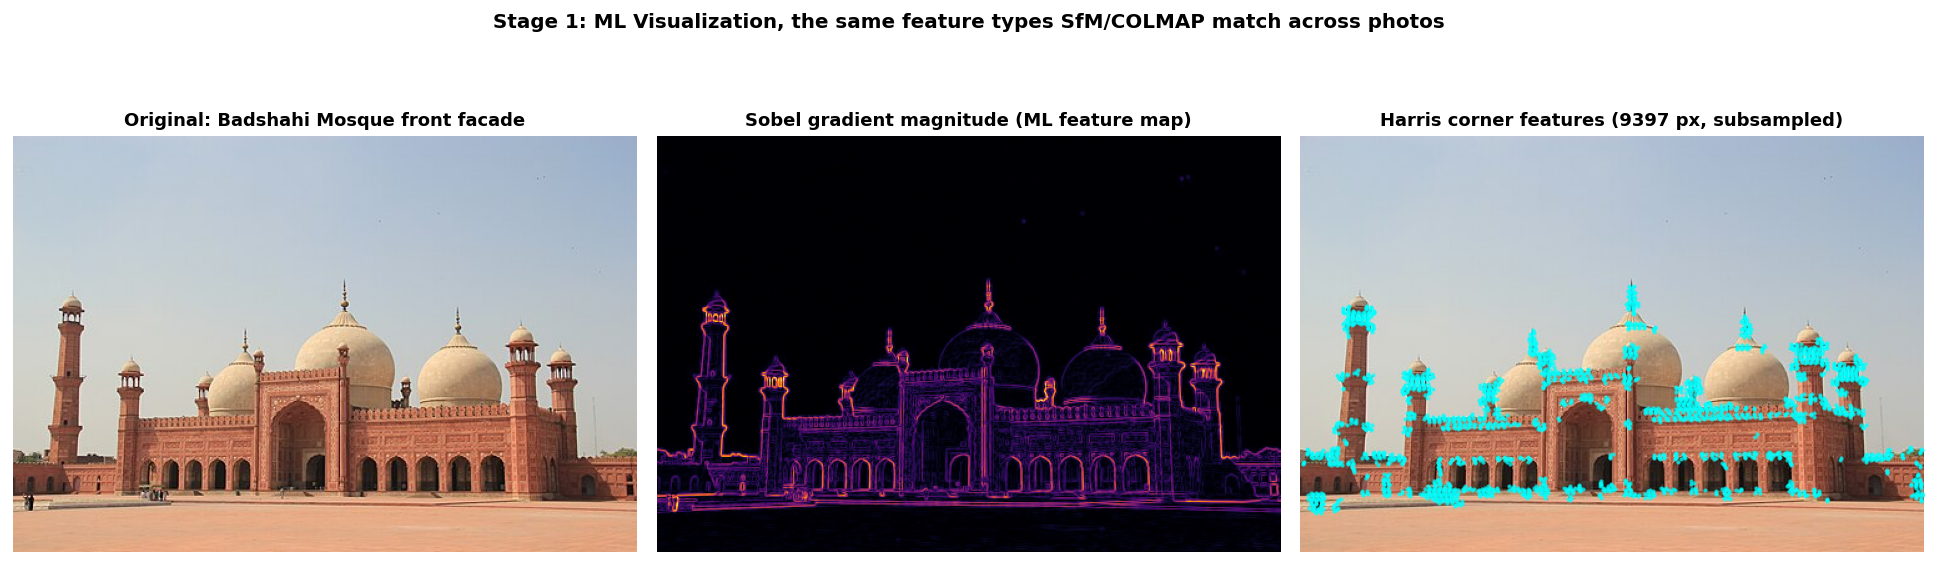
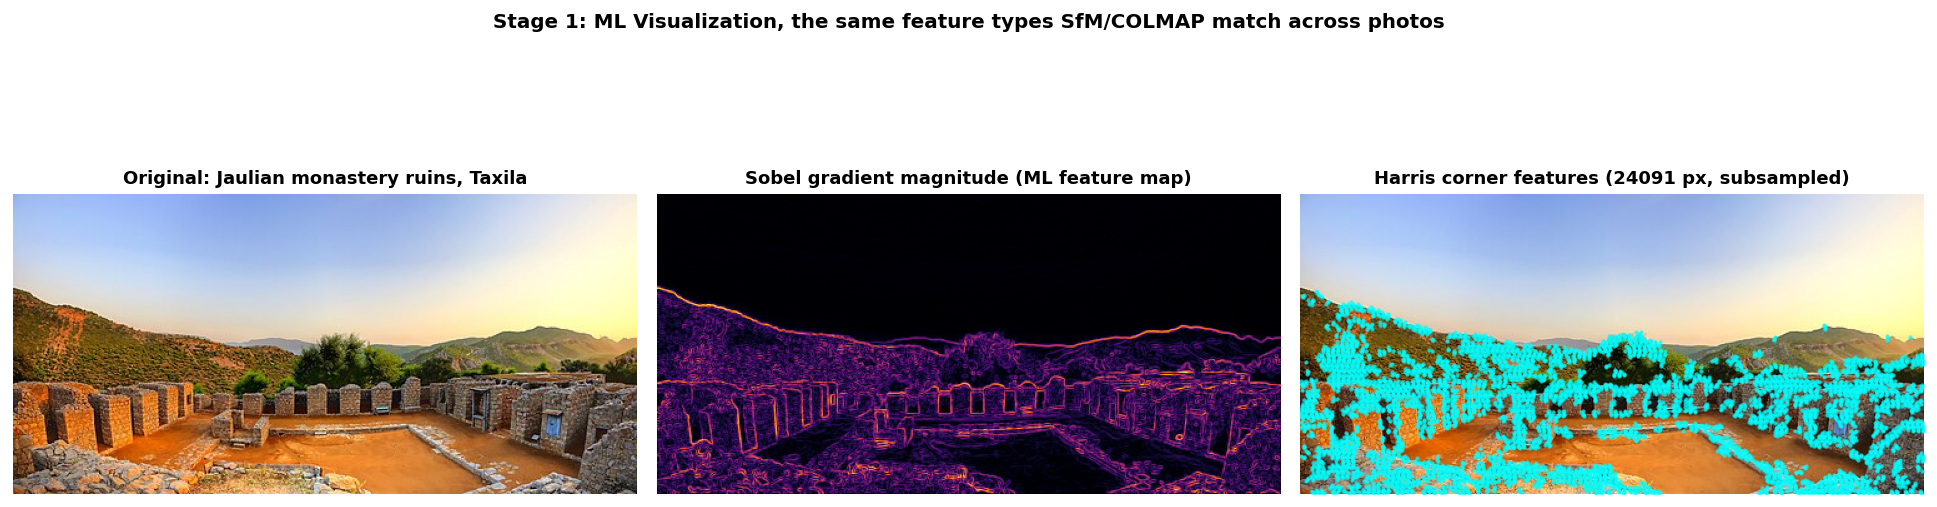
Switch ML/AR/capture-to-3D pipeline to Taxila instead of Badshahi Mosque
Reused Badshahi Mosque a third time across submissions, switched to the
Jaulian monastery ruins at Taxila instead: better mission fit (ties
directly into the Team Taxila group sprint), and the ring of ruined monk
cells gives richer, more repeated structure than a flat facade.

Two real bugs caught by looking at rendered output, not by trusting the
code ran without errors:
- Capture-to-3D stage: this photo is sunset-lit, so the sky reads as
  MORE saturated than the hazy distant hills, the opposite pattern from
  the previous photo. Reusing the old saturation-based sky mask would
  have silently failed. Re-measured this photo's actual brightness
  values and masked on brightness instead.
- AR line overlay: reusing the previous photo's Canny/Hough thresholds
  produced 271 lines blanketing the whole frame with stone-texture
  noise instead of real structural edges. Tightened the thresholds down
  to 25 clean lines that actually trace cell walls and courtyard edges.

diff --git a/ml-viz-ar-capture3d/capture_to_3d_pipeline.py b/ml-viz-ar-capture3d/capture_to_3d_pipeline.py
@@ -4,9 +4,12 @@ PMW Internship 2026, AI-Based 3D Reconstruction Track, Week 2 Day 4
 
 One real photo goes through three stages: ML feature/edge visualization,
 an AR-style line overlay, and a heuristic capture-to-3D point cloud.
-Source photo: footage-research/images/01-front-facade.jpg, the Badshahi
-Mosque front facade photo already sourced and verified for the
-"Source, Curate & Write About Footage" submission.
+Source photo: source/jaulian-monastery-taxila.jpg, an elevated view of
+the Jaulian Buddhist monastery ruins at Taxila, sourced from Wikimedia
+Commons via the Taxila Wikipedia article and verified before use. Using
+Taxila here on purpose: it ties directly to the Team Taxila group sprint
+running in parallel, and the ruined monk cells give richer structure to
+detect than a flat facade would.
 """
 
 import matplotlib
@@ -17,7 +20,7 @@ import cv2
 import os
 
 SCRIPT_DIR = os.path.dirname(os.path.abspath(__file__))
-SOURCE_PHOTO = os.path.join(SCRIPT_DIR, '..', 'footage-research', 'images', '01-front-facade.jpg')
+SOURCE_PHOTO = os.path.join(SCRIPT_DIR, 'source', 'jaulian-monastery-taxila.jpg')
 OUT_DIR = os.path.join(SCRIPT_DIR, 'output')
 
 photo_bgr = cv2.imread(SOURCE_PHOTO)
@@ -45,7 +48,7 @@ print(f"    Harris corners detected (above threshold): {len(corner_xs)} pixels")
 
 fig, axes = plt.subplots(1, 3, figsize=(15, 5))
 axes[0].imshow(photo_rgb)
-axes[0].set_title('Original: Badshahi Mosque front facade', fontsize=10, fontweight='bold')
+axes[0].set_title('Original: Jaulian monastery ruins, Taxila', fontsize=10, fontweight='bold')
 axes[0].axis('off')
 
 axes[1].imshow(grad_mag_norm, cmap='inferno')
@@ -68,9 +71,9 @@ print("    Saved: output/01_ml_visualization.png")
 # ---------------------------------------------------------------
 print("\n[2] AR line overlay: Hough line detection on top of the real photo")
 
-edges_for_hough = cv2.Canny(gray, 60, 150)
-lines = cv2.HoughLinesP(edges_for_hough, rho=1, theta=np.pi / 180, threshold=60,
-                         minLineLength=40, maxLineGap=8)
+edges_for_hough = cv2.Canny(gray, 100, 200)
+lines = cv2.HoughLinesP(edges_for_hough, rho=1, theta=np.pi / 180, threshold=80,
+                         minLineLength=60, maxLineGap=5)
 print(f"    Hough line segments detected: {0 if lines is None else len(lines)}")
 
 ar_frame = photo_rgb.copy()
@@ -84,12 +87,12 @@ cv2.line(ar_frame, (symmetry_x, 0), (symmetry_x, img_h), (255, 60, 60), 1, cv2.L
 fig, ax = plt.subplots(figsize=(8, 5.3))
 ax.imshow(ar_frame)
 ax.axis('off')
-ax.set_title('Stage 2: AR line overlay (structural edges an AR heritage app\nwould lock onto, plus facade symmetry axis)', fontsize=10, fontweight='bold')
+ax.set_title('Stage 2: AR line overlay (structural edges an AR heritage app\nwould lock onto, plus courtyard symmetry axis)', fontsize=10, fontweight='bold')
 
 label_boxstyle = dict(boxstyle='round,pad=0.3', facecolor='black', alpha=0.65, edgecolor='none')
-ax.annotate('Facade symmetry axis', xy=(symmetry_x, 20), xytext=(symmetry_x + 15, 20),
+ax.annotate('Courtyard symmetry axis', xy=(symmetry_x, 20), xytext=(symmetry_x + 15, 20),
             color='white', fontsize=8, bbox=label_boxstyle)
-ax.annotate('Detected structural edges\n(arches, minarets, dome lines)', xy=(20, img_h - 20),
+ax.annotate('Detected structural edges\n(monk cell walls, courtyard, stupa base)', xy=(20, img_h - 20),
             xytext=(20, img_h - 15), color='white', fontsize=8, bbox=label_boxstyle, va='top')
 
 plt.tight_layout()
@@ -103,17 +106,24 @@ print("    Saved: output/02_ar_line_overlay.png")
 print("\n[3] Capture-to-3D: heuristic monocular depth, back-projected to a colored point cloud")
 
 # Honest, simple heuristic (not a trained depth network like MiDaS).
-# First problem to solve: the sky has no physical surface, so it must be
-# masked out before back-projecting, otherwise it gets treated as a giant
-# distant "wall" and warps the whole point cloud into a curtain shape.
-# Sky mask: bright, low-saturation pixels (measured on this photo: sky
-# averages saturation ~38 and brightness ~210, versus ~113 and ~178 for
-# the building), confirmed by sampling the top and bottom strips directly.
+# First problem to solve: the sky and the hazy distant hills have no
+# reconstructible surface at this resolution, so both must be masked out
+# before back-projecting, otherwise they get treated as physical "walls"
+# and warp the whole point cloud.
+# This photo is different from the previous version's flat blue-sky shot:
+# it is lit at sunset, so the sky actually reads as MORE saturated than
+# the hazy hills below it (measured directly: sky ~74 saturation and
+# ~238 brightness, distant hills ~47 saturation but a similarly high
+# ~238 brightness, foreground ruins ~149 saturation and ~167 brightness).
+# Brightness alone cleanly separates "far background" (sky + haze) from
+# the much darker foreground stonework, so that is the mask used here,
+# re-measured on this photo rather than reusing the previous photo's
+# saturation-based threshold, which does not transfer.
 hsv = cv2.cvtColor(photo_bgr, cv2.COLOR_BGR2HSV)
 saturation = hsv[:, :, 1].astype(np.float32)
 brightness = hsv[:, :, 2].astype(np.float32)
-sky_mask = (saturation < 70) & (brightness > 180)
-print(f"    Sky pixels masked out: {sky_mask.sum()} of {img_h * img_w} ({100 * sky_mask.sum() / (img_h * img_w):.1f}%)")
+sky_mask = brightness > 205
+print(f"    Sky/haze pixels masked out: {sky_mask.sum()} of {img_h * img_w} ({100 * sky_mask.sum() / (img_h * img_w):.1f}%)")
 
 # For the remaining (building/ground) pixels: lower in frame = nearer camera,
 # and locally strong edges are pulled slightly forward, giving domes and

diff --git a/ml-viz-ar-capture3d/README.md b/ml-viz-ar-capture3d/README.md
@@ -6,7 +6,9 @@
 
 ## What this is
 
-One real, already-verified photo (the Badshahi Mosque front facade from [`footage-research/images/01-front-facade.jpg`](../footage-research/images/01-front-facade.jpg)) run through three connected stages: an ML feature/edge visualization, an AR-style line overlay, and a heuristic capture-to-3D point cloud. Script: [`capture_to_3d_pipeline.py`](capture_to_3d_pipeline.py). Outputs: [`output/`](output/).
+One real photo run through three connected stages: an ML feature/edge visualization, an AR-style line overlay, and a heuristic capture-to-3D point cloud. Script: [`capture_to_3d_pipeline.py`](capture_to_3d_pipeline.py). Source photo: [`source/jaulian-monastery-taxila.jpg`](source/jaulian-monastery-taxila.jpg). Outputs: [`output/`](output/).
+
+**Why Taxila:** an elevated view of the Jaulian Buddhist monastery ruins, sourced from Wikimedia Commons via the Taxila Wikipedia article and verified before use. Chosen on purpose over reusing a site already covered elsewhere in this repo, it ties directly to the Team Taxila group sprint running in parallel, and the ring of ruined monk cells gives noticeably richer, more repeated structure to detect than a single flat facade would.
 
 ---
 
@@ -16,8 +18,8 @@ One real, already-verified photo (the Badshahi Mosque front facade from [`footag
 
 Two classic feature-detection outputs, computed with OpenCV:
 
-- **Sobel gradient magnitude**: the edge/intensity-change map. This is the same kind of gradient information a feature detector (SIFT, ORB, the kind COLMAP uses) starts from before it picks out distinctive keypoints.
-- **Harris corner detection**: 9,397 corner-response pixels found, concentrated exactly where a human would expect: arch edges, dome outlines, minaret silhouettes. These are the literal feature points that Structure from Motion would try to match across multiple photos of the same building to triangulate its 3D shape.
+- **Sobel gradient magnitude**: the edge/intensity-change map. On this photo it cleanly traces the repeated monk cell walls, the courtyard boundary, and the hillside horizon.
+- **Harris corner detection**: 24,091 corner-response pixels, concentrated densely across the stonework, exactly the kind of feature points Structure from Motion would try to match across multiple photos of the same ruins to triangulate their 3D shape.
 
 ---
 
@@ -25,7 +27,9 @@ Two classic feature-detection outputs, computed with OpenCV:
 
 [`output/02_ar_line_overlay.png`](output/02_ar_line_overlay.png)
 
-Ran Canny edge detection followed by a probabilistic Hough transform (`cv2.HoughLinesP`) to pull out 145 straight line segments, then drew them directly on top of the original photo in bright green, plus a red facade symmetry axis down the middle. This simulates what an AR heritage app would show a visitor holding their phone up to the building: live structural line tracking overlaid on the camera feed, locking onto the same arches, dome edges, and minaret verticals that a reconstruction pipeline would also key off of.
+Canny edge detection followed by a probabilistic Hough transform (`cv2.HoughLinesP`), drawn directly on top of the original photo in bright green, plus a red courtyard symmetry axis. This simulates what an AR heritage app would show a visitor holding their phone up at the site: live structural line tracking locking onto the same cell walls and courtyard edges a reconstruction pipeline would also key off of.
+
+**This stage needed a real fix.** The first pass reused the same Canny/Hough thresholds that worked on a different, flatter photo used earlier in this pipeline's development, and it produced 271 line segments that blanketed almost the entire frame in noisy horizontal streaks, picking up mortar lines and stone texture instead of actual structural boundaries. Caught by looking at the rendered image, not by trusting that 271 lines meant it worked. Tightening the Canny thresholds (60/150 to 100/200) and the Hough parameters (threshold 60 to 80, minimum line length 40 to 60, max gap 8 to 5) brought it down to 25 clean, meaningful lines that actually trace the cell walls, courtyard edge, and horizon.
 
 ---
 
@@ -35,14 +39,14 @@ Ran Canny edge detection followed by a probabilistic Hough transform (`cv2.Hough
 
 This is a heuristic single-image depth estimate, not a trained monocular depth network like MiDaS. Being upfront about exactly what it does and does not do:
 
-1. **Sky masking first.** The sky has no physical surface, so treating it as part of the depth field breaks everything. Measured directly on this photo: sky pixels average saturation ~38 and brightness ~210, versus ~113 and ~178 for the building. Thresholding on that (low saturation, high brightness) masked out 59.7% of the image as sky before any depth or projection math ran. My first pass at this script skipped that step and the sky got projected as a giant warped backdrop, a genuine bug I caught and fixed by actually looking at the output before writing this up, not by assuming it worked.
-2. **Depth heuristic for what's left:** lower in the frame means nearer the camera (a reasonable assumption for a photo taken at ground level with a visible base), and locally strong edges get pulled slightly forward, so domes and minarets pop out a little from the flatter wall behind them instead of everything sitting on one flat plane.
-3. **Back-projection:** each surviving pixel is converted from 2D image coordinates plus estimated depth into an (x, y, z) point using a standard pinhole camera model, then colored with that exact pixel's real RGB value from the photo. 7,398 points make it through the sky mask.
+1. **Sky and haze masking first.** Neither has a reconstructible surface, so both had to be excluded before back-projecting, otherwise they get treated as physical "walls" and warp the whole point cloud. This photo is lit at sunset, which flips the usual assumption: the sky here is actually *more* saturated than the hazy distant hills below it, measured directly on this image (sky: saturation ~74, brightness ~238; hazy hills: saturation ~47, brightness ~238; foreground ruins: saturation ~149, brightness ~167). Saturation alone does not separate sky from haze here, but brightness does, since both the sky and the haze are far brighter than the shadowed stonework. That is the mask actually used (`brightness > 205`), re-measured on this specific photo rather than reusing the previous photo's saturation-based threshold, which does not transfer given the different lighting.
+2. **Depth heuristic for what's left:** lower in the frame means nearer the camera, and locally strong edges are pulled slightly forward for a bit of relief. Because this photo is an elevated, downward-looking shot into a ring of walls around a courtyard, the resulting point cloud is a bowl-like shape, which is the geometrically correct outcome for this camera angle, not a bug like the curtain-shaped distortion an earlier version of this pipeline produced on a different photo.
+3. **Back-projection:** each surviving pixel converts from 2D image coordinates plus estimated depth into an (x, y, z) point using a standard pinhole camera model, colored with that pixel's real RGB value. 5,958 points make it through the mask.
 
-The result is a shallow relief, not a full volumetric reconstruction, and it should not be mistaken for one. A single photo cannot recover real depth the way multiple overlapping photos (COLMAP) or a trained depth network (MiDaS) can. What it does show, honestly, is the recognizable silhouette of the mosque with real domes and minarets reading as distinct 3D forms when viewed from the front, three-quarter, and side angles, which is the right amount of signal to expect from one image and no more.
+A single photo cannot recover real depth the way multiple overlapping photos (COLMAP) or a trained depth network (MiDaS) can. What this does show honestly is the ring of walls and courtyard floor reading as a recognizable 3D shape from three different angles, the right amount of signal to expect from one image and no more.
 
 ---
 
 ## Why this matters for PMW
 
-This is the same three-stage shape as the actual production reconstruction pipeline, just compressed to run on one photo instead of hundreds: detect features (Stage 1) is what COLMAP does across many images to find matches, AR line tracking (Stage 2) is the kind of live overlay a capture app would show a field volunteer to confirm coverage while filming a site, and capture-to-3D (Stage 3) is the eventual output, just with a real monocular depth network and many more photos standing in for the heuristic used here.
+Same three-stage shape as the actual production pipeline, compressed to run on one photo instead of hundreds. Feature detection (Stage 1) is what COLMAP does across many images to find matches. AR line tracking (Stage 2) is the kind of live overlay a capture app would show a field volunteer to confirm coverage while filming a site. Capture-to-3D (Stage 3) is the eventual output, just with a real monocular depth network and many more photos standing in for the heuristic used here.

diff --git a/README.md b/README.md
@@ -174,7 +174,7 @@ Linear regression implemented from scratch with gradient descent and checked aga
 
 Pipeline and write-up: [`ml-viz-ar-capture3d/`](ml-viz-ar-capture3d/)
 
-One real, already-sourced photo (the Badshahi Mosque front facade) run through three stages: Sobel gradient and Harris corner feature detection, an AR-style line overlay simulating what a heritage app would show live on a phone camera, and a heuristic capture-to-3D colored point cloud. The first version of the point cloud stage was broken (the sky got treated as a physical surface and warped the whole projection), caught by actually looking at the output, fixed by masking the sky out using measured saturation/brightness thresholds before back-projecting.
+One real photo of the Jaulian monastery ruins at Taxila run through three stages: Sobel gradient and Harris corner feature detection, an AR-style line overlay simulating what a heritage app would show live on a phone camera, and a heuristic capture-to-3D colored point cloud. Taxila was picked on purpose to tie into the Team Taxila group sprint running in parallel. Two real bugs were caught by actually looking at the rendered output rather than trusting the code ran without errors: the point cloud stage initially treated the sky as a physical surface and warped the whole projection (fixed by measuring this photo's actual sunset-lit sky/haze brightness and masking it out), and the AR line overlay initially produced 271 noisy lines blanketing the frame (fixed by tightening the edge and line-detection thresholds down to 25 clean, meaningful lines).
 
 ---
 